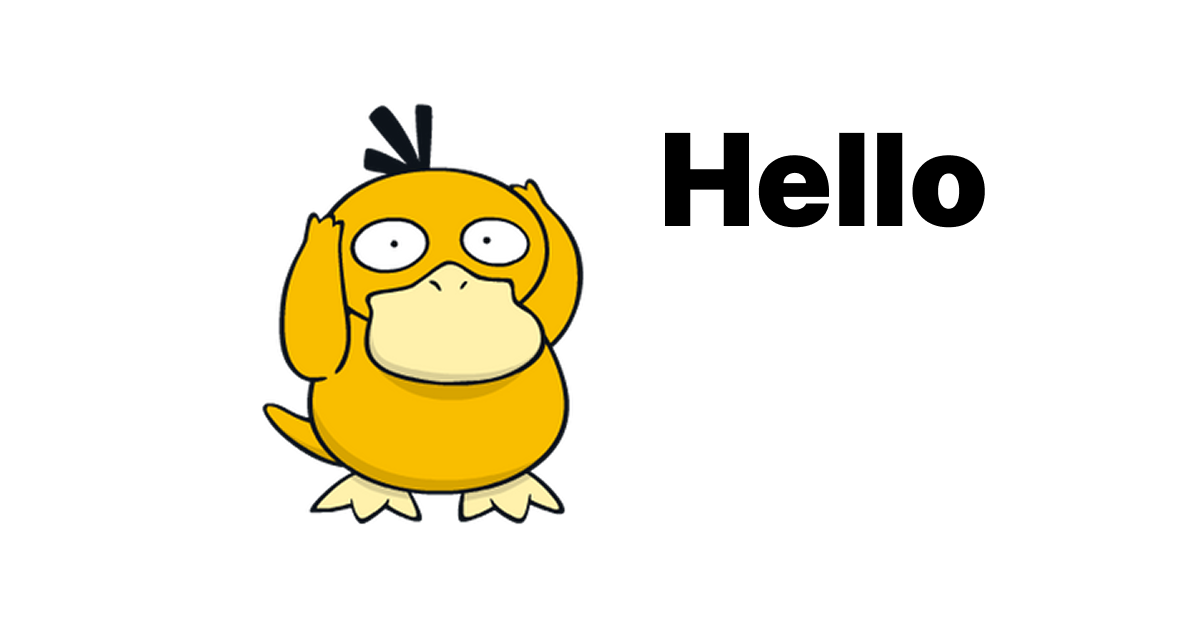
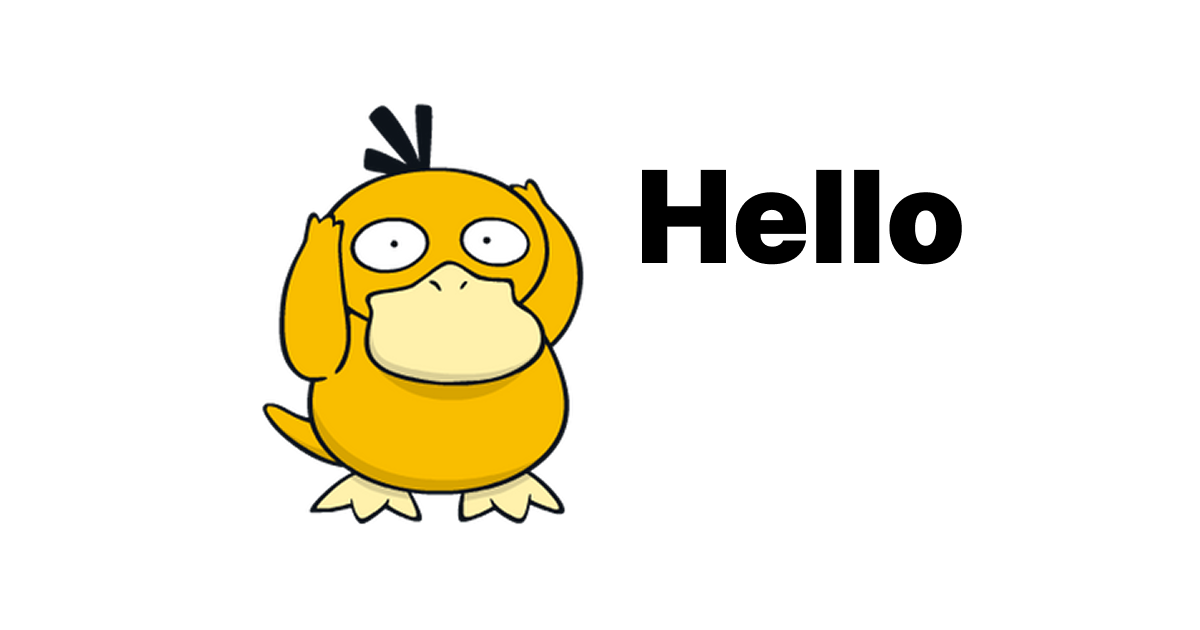
update to og-image and link to photo ig

Changed region(s): [[0.5242, 0.2111, 0.8325, 0.4222]]

diff --git a/src/data/resume.tsx b/src/data/resume.tsx
@@ -14,7 +14,7 @@ export const DATA = {
     
     \n\n Currently seeking opportunities entry-level/new grad roles in software engineering and design.
     
-    \n\n Ask me about photography, sitcoms, and food!`,
+    \n\n Ask me about [photography](https://www.instagram.com/seanphotodumps), sitcoms, and food!`,
   avatarUrl: "/me.png",
   skills: [
     "React",
